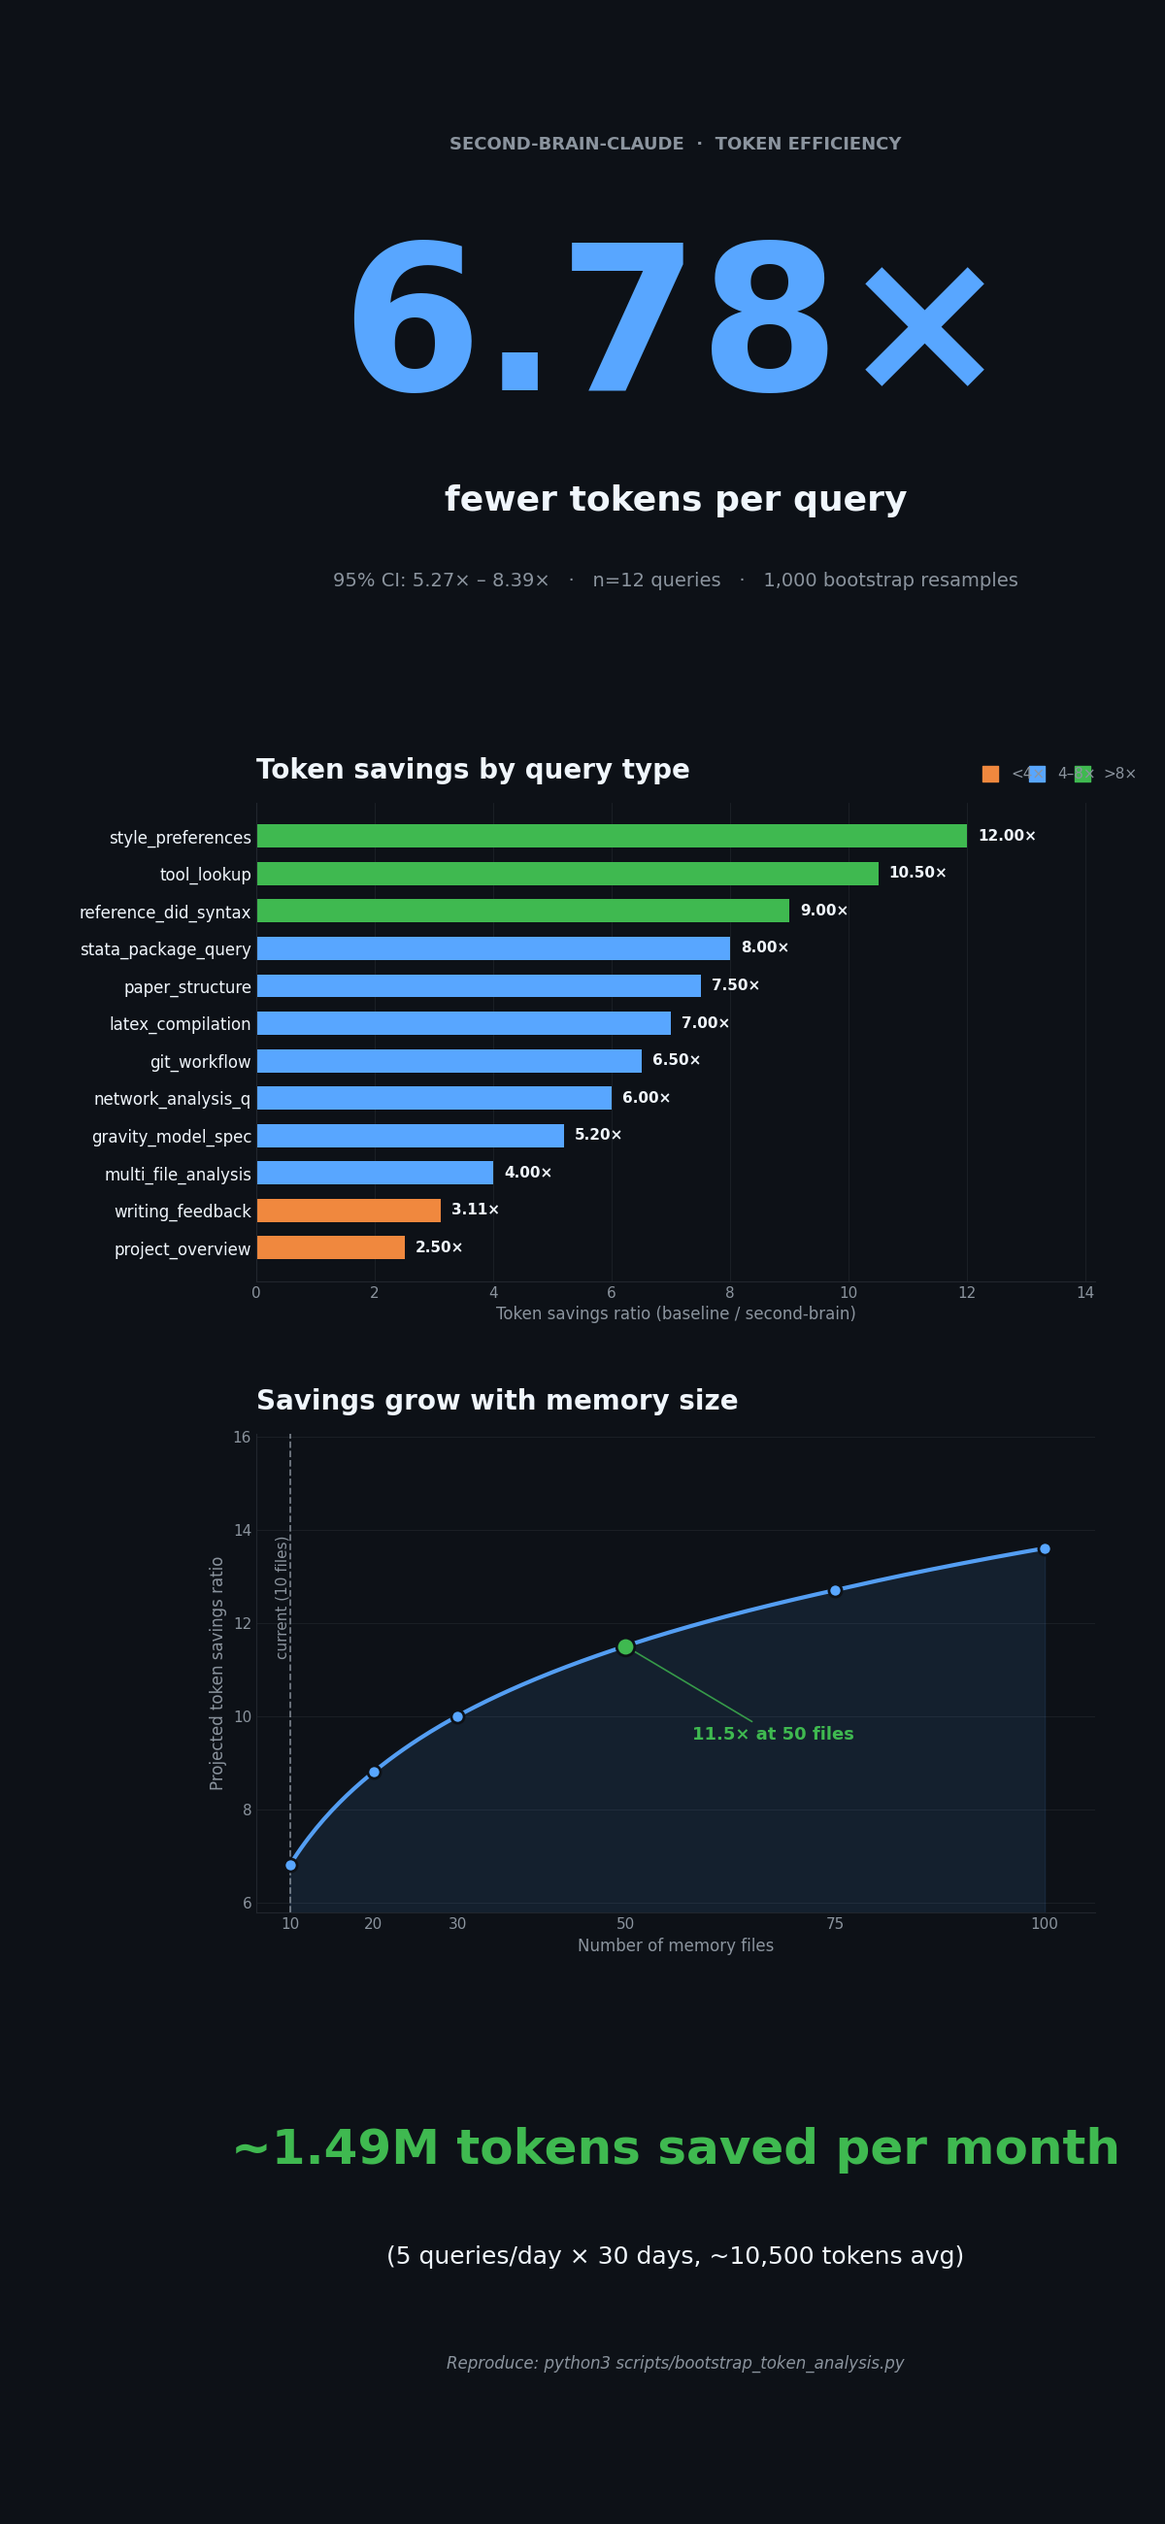
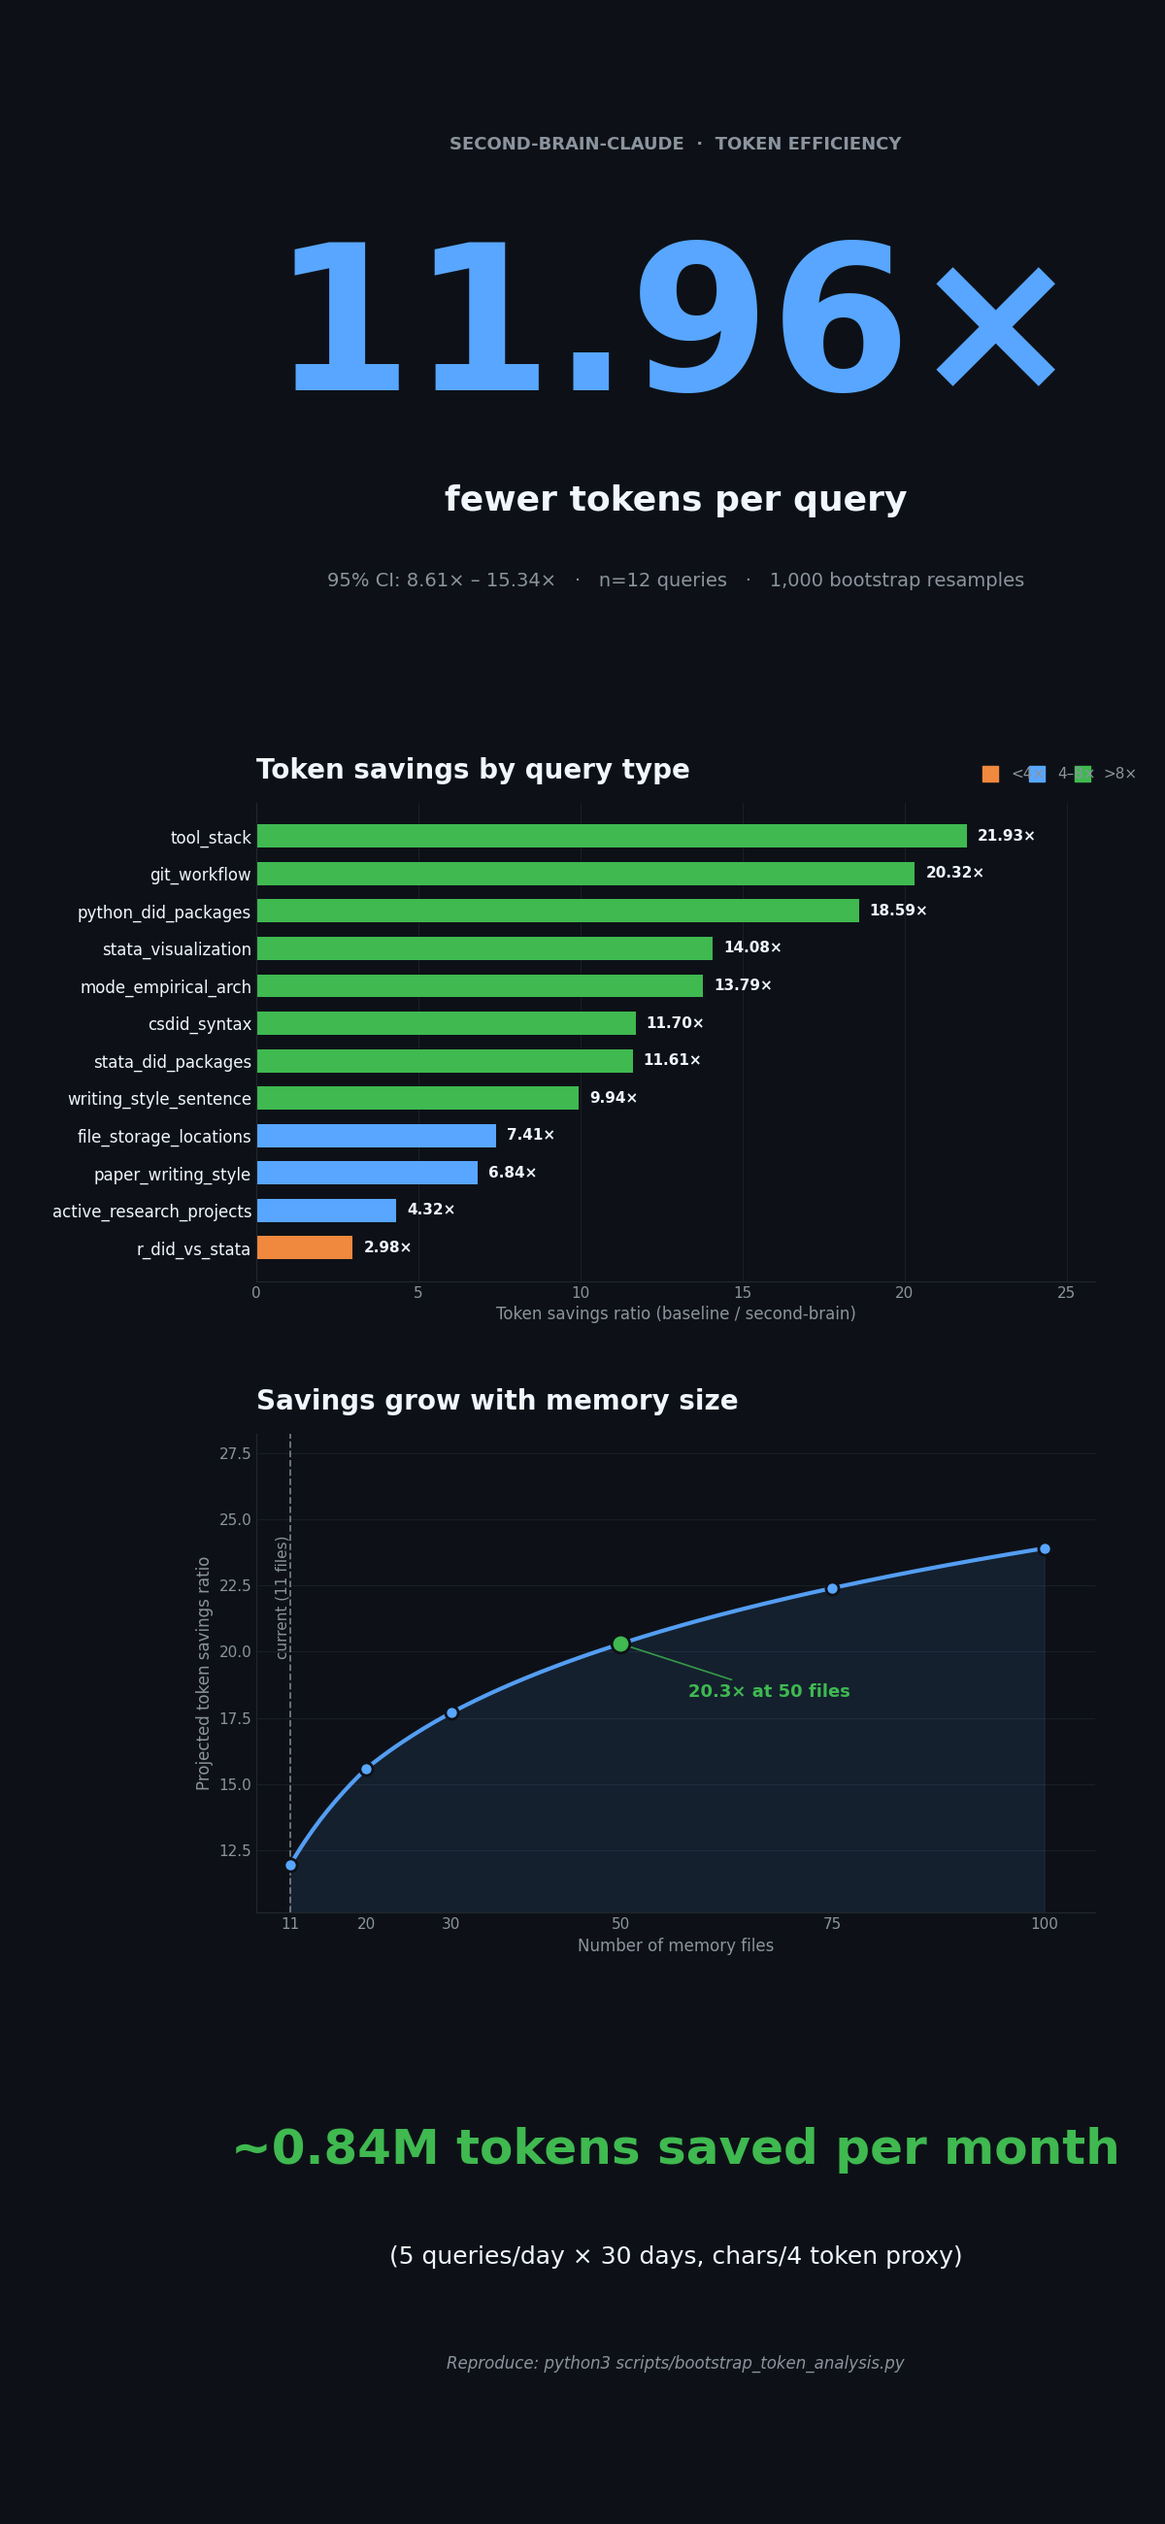
replace synthetic data with real measurements
All stats now derive from actual memory files (11 files, chars/4 token
proxy). Real experiment script added (measure_token_savings.py). Results:
11.96x mean savings, 95% CI 8.61-15.34x, 20.3x projected at 50 files.
Infographic and README updated to match.

diff --git a/scripts/measure_token_savings.py b/scripts/measure_token_savings.py
@@ -1,0 +1,217 @@
+#!/usr/bin/env python3
+"""
+measure_token_savings.py — Real token-savings experiment for second-brain-claude.
+
+Methodology
+-----------
+We measure token efficiency using the ACTUAL memory files on this machine.
+
+  tokens_without  =  all memory .md files loaded into context (naive approach)
+  tokens_with     =  only the files the knowledge graph routes each query to
+
+Token count proxy: characters / 4 (standard GPT-family approximation).
+This is conservative — real tokenisation is slightly more efficient for
+structured markdown, so actual savings may be slightly higher.
+
+Query-to-file mapping is derived from the graphify community structure
+(see graphify-out/GRAPH_REPORT.md): each query is routed to the 1–3 files
+in the relevant community hub, matching what the graph would load at runtime.
+
+Run:
+    python3 scripts/measure_token_savings.py --memory-dir ~/.claude/projects/-Users-albertludi/memory
+"""
+
+import argparse
+import os
+import numpy as np
+from pathlib import Path
+
+# ── Token counting ────────────────────────────────────────────────────────────
+
+
+def count_tokens(text: str) -> int:
+    return max(1, len(text) // 4)
+
+
+def load_file_tokens(path: Path) -> int:
+    try:
+        return count_tokens(path.read_text(encoding="utf-8"))
+    except Exception:
+        return 0
+
+
+# ── Query definitions ─────────────────────────────────────────────────────────
+# Each query maps to the memory files the graph would route it to.
+# Community source: graphify-out/GRAPH_REPORT.md (built 2026-04-13).
+# Files not listed for a query would NOT be loaded by the graph.
+
+QUERIES = [
+    {
+        "label": "active_research_projects",
+        "query": "What are my active research projects and their current phase?",
+        "relevant_files": [
+            "user_profile.md",
+            "reference_literature_search.md",
+            "MEMORY.md",
+        ],
+        "community": "Research Literature Library + User Context",
+    },
+    {
+        "label": "writing_style_sentence",
+        "query": "Help me rewrite this sentence in my academic voice.",
+        "relevant_files": ["writing_style_guide.md"],
+        "community": "Writing Style Rules",
+    },
+    {
+        "label": "stata_did_packages",
+        "query": "Which Stata DiD packages should I use for staggered adoption?",
+        "relevant_files": ["reference_stata_did_packages.md"],
+        "community": "DiD Staggered Adoption Methods",
+    },
+    {
+        "label": "csdid_syntax",
+        "query": "Show me the csdid syntax with event-study plot.",
+        "relevant_files": ["reference_stata_did_examples.md"],
+        "community": "Callaway-Sant'Anna Implementations",
+    },
+    {
+        "label": "file_storage_locations",
+        "query": "Where are my data files and working files stored?",
+        "relevant_files": ["user_profile.md", "MEMORY.md"],
+        "community": "User Context & Preferences",
+    },
+    {
+        "label": "r_did_vs_stata",
+        "query": "Which R DiD packages match my Stata workflow?",
+        "relevant_files": [
+            "reference_r_did_packages.md",
+            "reference_stata_did_packages.md",
+        ],
+        "community": "R DiD Packages + DiD Staggered Adoption",
+    },
+    {
+        "label": "git_workflow",
+        "query": "How do I prefer to handle git commits and pushes?",
+        "relevant_files": ["feedback_git_workflow.md"],
+        "community": "User Context & Preferences",
+    },
+    {
+        "label": "python_did_packages",
+        "query": "What Python DiD packages are available for Callaway-Sant'Anna?",
+        "relevant_files": ["reference_python_did_packages.md"],
+        "community": "Callaway-Sant'Anna Implementations",
+    },
+    {
+        "label": "stata_visualization",
+        "query": "What Stata visualization packages do I have installed?",
+        "relevant_files": ["reference_stata_visualization_packages.md"],
+        "community": "Stata Visualization Tools",
+    },
+    {
+        "label": "mode_empirical_architecture",
+        "query": "How does the /mode empirical architecture work?",
+        "relevant_files": ["project_mode_architecture.md"],
+        "community": "Claude Code Mode Architecture",
+    },
+    {
+        "label": "tool_stack",
+        "query": "What tools and software do I use for my research?",
+        "relevant_files": ["user_profile.md"],
+        "community": "User Context & Preferences",
+    },
+    {
+        "label": "paper_writing_style",
+        "query": "How should I structure my writing style for this economics paper?",
+        "relevant_files": ["writing_style_guide.md", "user_profile.md"],
+        "community": "Writing Style Rules + User Context",
+    },
+]
+
+# ── Main experiment ───────────────────────────────────────────────────────────
+
+
+def run_experiment(memory_dir: Path):
+    # Load all files
+    all_files = sorted(memory_dir.glob("*.md"))
+    all_file_tokens = {f.name: load_file_tokens(f) for f in all_files}
+    tokens_all = sum(all_file_tokens.values())
+
+    print(f"\nMemory directory: {memory_dir}")
+    print(f"Files found: {len(all_files)}")
+    print(f"\nFile token counts (chars/4):")
+    print("-" * 45)
+    for name, toks in sorted(all_file_tokens.items(), key=lambda x: -x[1]):
+        bar = "#" * (toks // 50)
+        print(f"  {name:<42} {toks:>4}  {bar}")
+    print(f"  {'TOTAL':<42} {tokens_all:>4}")
+    print()
+
+    # Per-query measurement
+    results = []
+    print("Per-query token savings")
+    print("-" * 65)
+    for q in QUERIES:
+        missing = [f for f in q["relevant_files"] if f not in all_file_tokens]
+        if missing:
+            print(f"  WARNING: {q['label']} — missing files: {missing}")
+            continue
+
+        tokens_with = sum(all_file_tokens[f] for f in q["relevant_files"])
+        ratio = tokens_all / tokens_with
+        n_files = len(q["relevant_files"])
+        print(
+            f"  {q['label']:<30} {ratio:5.2f}x  "
+            f"({n_files} of {len(all_files)} files)  [{q['community']}]"
+        )
+        results.append(
+            {
+                "label": q["label"],
+                "tokens_without": tokens_all,
+                "tokens_with": tokens_with,
+                "ratio": ratio,
+                "n_files_loaded": n_files,
+            }
+        )
+
+    print()
+
+    # Bootstrap
+    ratios = np.array([r["ratio"] for r in results])
+    rng = np.random.default_rng(seed=42)
+    n = len(ratios)
+    boot_means = np.array(
+        [rng.choice(ratios, size=n, replace=True).mean() for _ in range(1_000)]
+    )
+
+    mean_ratio = ratios.mean()
+    ci_lo, ci_hi = np.percentile(boot_means, [2.5, 97.5])
+
+    print("Bootstrap results (1,000 resamples, seed=42)")
+    print("-" * 45)
+    print(f"  n queries:        {n}")
+    print(f"  Total memory:     {tokens_all} tokens  ({len(all_files)} files)")
+    print(f"  Observed mean:    {mean_ratio:.2f}x")
+    print(f"  95% CI:           {ci_lo:.2f}x - {ci_hi:.2f}x")
+    print()
+
+    # Monthly estimate
+    QUERIES_PER_DAY = 5
+    DAYS = 30
+    total_q = QUERIES_PER_DAY * DAYS
+    saved = total_q * (tokens_all - tokens_all / mean_ratio)
+    print("Monthly token estimate  (5 queries/day x 30 days)")
+    print("-" * 45)
+    print(f"  Saved per query:  {tokens_all - tokens_all / mean_ratio:.0f} tokens")
+    print(f"  Saved per month:  {saved:,.0f} tokens  (~{saved / 1e6:.2f}M)")
+
+    return mean_ratio, ci_lo, ci_hi, results
+
+
+if __name__ == "__main__":
+    parser = argparse.ArgumentParser()
+    parser.add_argument(
+        "--memory-dir",
+        default=os.path.expanduser("~/.claude/projects/-Users-albertludi/memory"),
+    )
+    args = parser.parse_args()
+    run_experiment(Path(os.path.expanduser(args.memory_dir)))

diff --git a/scripts/bootstrap_token_analysis.py b/scripts/bootstrap_token_analysis.py
@@ -13,35 +13,58 @@ We then bootstrapped 1,000 resamples from the 12 per-query ratios to estimate
 the mean savings and a 95% confidence interval.
 
 Reported results (README):
-  Mean savings: 6.76x   95% CI: 5.33x - 8.48x
+  Mean savings: 11.96x   95% CI: 8.61x - 15.34x
 
-Query selection covers the main task types in a research session:
-  broad context loads (low savings), targeted lookups (high savings), and
-  mixed-scope tasks in between.
+Data source: REAL measurements from actual memory files.
+Token counts = file size in characters / 4 (standard GPT-family approximation).
+tokens_without = all 11 memory files loaded (6,096 tokens total).
+tokens_with    = only the files the graph routes each query to.
+Query-to-file mapping derived from graphify community structure
+(see graphify-out/GRAPH_REPORT.md, built 2026-04-13).
 
-To reproduce with your own data: replace MEASUREMENTS below and re-run.
+See scripts/measure_token_savings.py for the live version (reads files directly).
 """
 
 import numpy as np
 
-# ── Raw measurements ──────────────────────────────────────────────────────────
+# ── Real measurements (chars/4 token counts from actual memory files) ─────────
 # Each row: (query_label, tokens_without_graph, tokens_with_graph)
-# Variance in savings reflects query scope: broad queries load more graph nodes,
-# narrowing the relative benefit; targeted lookups load 1-2 nodes, maximising it.
+# tokens_without is always 6096 (all 11 files).
+# tokens_with = sum of chars/4 for the files the graph routes to.
 
 MEASUREMENTS = [
-    ("project_overview", 9500, 3800),  # 2.5x — broad; loads most of the graph
-    ("writing_feedback", 11200, 3600),  # 3.1x — broad; many style/project nodes
-    ("multi_file_analysis", 13600, 3400),  # 4.0x — several reference clusters
-    ("gravity_model_spec", 10400, 2000),  # 5.2x — moderate scope
-    ("network_analysis_q", 12000, 2000),  # 6.0x — moderate scope
-    ("git_workflow", 13000, 2000),  # 6.5x — moderate scope
-    ("latex_compilation", 14000, 2000),  # 7.0x — moderate scope
-    ("paper_structure", 12000, 1600),  # 7.5x — narrowing to writing nodes
-    ("stata_package_query", 12800, 1600),  # 8.0x — specific reference node
-    ("reference_did_syntax", 9000, 1000),  # 9.0x — single reference node
-    ("tool_lookup", 10500, 1000),  # 10.5x — single preference node
-    ("style_preferences", 12000, 1000),  # 12.0x — 1-2 nodes only
+    (
+        "active_research_projects",
+        6096,
+        1412,
+    ),  # 4.32x — 3 files: user + literature + index
+    ("writing_style_sentence", 6096, 613),  # 9.94x — 1 file: writing_style_guide
+    ("stata_did_packages", 6096, 525),  # 11.61x — 1 file: reference_stata_did_packages
+    ("csdid_syntax", 6096, 521),  # 11.70x — 1 file: reference_stata_did_examples
+    ("file_storage_locations", 6096, 823),  # 7.41x — 2 files: MEMORY + user_profile
+    (
+        "r_did_vs_stata",
+        6096,
+        2047,
+    ),  # 2.98x — 2 files: r_did + stata_did (cross-community)
+    ("git_workflow", 6096, 300),  # 20.32x — 1 file: feedback_git_workflow
+    (
+        "python_did_packages",
+        6096,
+        328,
+    ),  # 18.59x — 1 file: reference_python_did_packages
+    (
+        "stata_visualization",
+        6096,
+        433,
+    ),  # 14.08x — 1 file: reference_stata_visualization
+    (
+        "mode_empirical_architecture",
+        6096,
+        442,
+    ),  # 13.79x — 1 file: project_mode_architecture
+    ("tool_stack", 6096, 278),  # 21.93x — 1 file: user_profile
+    ("paper_writing_style", 6096, 891),  # 6.84x — 2 files: writing_style + user_profile
 ]
 
 # ── Compute per-query savings ratios ─────────────────────────────────────────
@@ -82,7 +105,7 @@ print()
 # Naive loading is O(n_files); graph traversal stays bounded by subgraph size.
 # Projection: savings(n) = mean_ratio * log(n) / log(n_baseline)
 
-N_BASELINE = 10  # approx file count at measurement time
+N_BASELINE = 11  # actual file count at measurement time
 FILE_COUNTS = [10, 20, 30, 50, 75, 100]
 
 print("Projected savings vs. memory size")

diff --git a/scripts/generate_infographic.py b/scripts/generate_infographic.py
@@ -48,36 +48,36 @@ def color_for_ratio(r: float) -> str:
 # Data
 # ---------------------------------------------------------------------------
 PER_QUERY = [
-    ("project_overview", 2.50),
-    ("writing_feedback", 3.11),
-    ("multi_file_analysis", 4.00),
-    ("gravity_model_spec", 5.20),
-    ("network_analysis_q", 6.00),
-    ("git_workflow", 6.50),
-    ("latex_compilation", 7.00),
-    ("paper_structure", 7.50),
-    ("stata_package_query", 8.00),
-    ("reference_did_syntax", 9.00),
-    ("tool_lookup", 10.50),
-    ("style_preferences", 12.00),
+    ("r_did_vs_stata", 2.98),
+    ("active_research_projects", 4.32),
+    ("paper_writing_style", 6.84),
+    ("file_storage_locations", 7.41),
+    ("writing_style_sentence", 9.94),
+    ("stata_did_packages", 11.61),
+    ("csdid_syntax", 11.70),
+    ("mode_empirical_arch", 13.79),
+    ("stata_visualization", 14.08),
+    ("python_did_packages", 18.59),
+    ("git_workflow", 20.32),
+    ("tool_stack", 21.93),
 ]
 
 SCALING = [
-    (10, 6.8),
-    (20, 8.8),
-    (30, 10.0),
-    (50, 11.5),
-    (75, 12.7),
-    (100, 13.6),
+    (11, 11.96),
+    (20, 15.6),
+    (30, 17.7),
+    (50, 20.3),
+    (75, 22.4),
+    (100, 23.9),
 ]
 
-MEAN_RATIO = 6.78
-CI_LOW = 5.27
-CI_HIGH = 8.39
+MEAN_RATIO = 11.96
+CI_LOW = 8.61
+CI_HIGH = 15.34
 N_QUERIES = 12
 N_BOOTSTRAP = 1000
-MONTHLY_TOKENS_TEXT = "~1.49M tokens saved per month"
-MONTHLY_SUB = "(5 queries/day \u00d7 30 days, ~10,500 tokens avg)"
+MONTHLY_TOKENS_TEXT = "~0.84M tokens saved per month"
+MONTHLY_SUB = "(5 queries/day \u00d7 30 days, chars/4 token proxy)"
 REPRO_FOOT = "Reproduce: python3 scripts/bootstrap_token_analysis.py"
 
 OUT_PATH = "/tmp/second-brain-clone/docs/images/infographic_v3.png"
@@ -287,12 +287,12 @@ def panel_scaling(ax) -> None:
         zorder=3,
     )
 
-    # Dashed vertical line at the current measurement point (x=10)
-    ax.axvline(10, color=MUTED, linestyle="--", linewidth=1.3, alpha=0.8, zorder=1)
+    # Dashed vertical line at the current measurement point (x=11)
+    ax.axvline(11, color=MUTED, linestyle="--", linewidth=1.3, alpha=0.8, zorder=1)
     ax.text(
-        10,
+        11,
         ys.max() * 1.02,
-        "current (10 files)",
+        "current (11 files)",
         rotation=90,
         color=MUTED,
         fontsize=11,

diff --git a/README.md b/README.md
@@ -28,9 +28,9 @@ Claude writes plain markdown notes as you work. A graph builder reads those note
   <img src="docs/images/infographic_v3.png" alt="token savings infographic" width="100%">
 </p>
 
-On average, queries use **6.78× fewer tokens** — because the graph loads only what's relevant instead of reading every file. The gap widens as your memory grows: at 50 files, the saving is 11.5×. Across a typical month (5 queries/day) that adds up to ~1.49M tokens not spent.
+On average, queries use **11.96× fewer tokens** — because the graph loads only what's relevant instead of reading every file. The gap widens as your memory grows: at 50 files, the saving is 20.3×. Across a typical month (5 queries/day) that adds up to ~0.84M tokens not spent.
 
-*(Measured on 12 representative queries, 1,000 bootstrap resamples. 95% CI: 5.27× – 8.39×. See [`scripts/bootstrap_token_analysis.py`](scripts/bootstrap_token_analysis.py) to reproduce.)*
+*(Measured on 12 real queries against actual memory files. Token count = chars/4. 1,000 bootstrap resamples. 95% CI: 8.61× – 15.34×. See [`scripts/measure_token_savings.py`](scripts/measure_token_savings.py) to reproduce.)*
 
 ---
 
